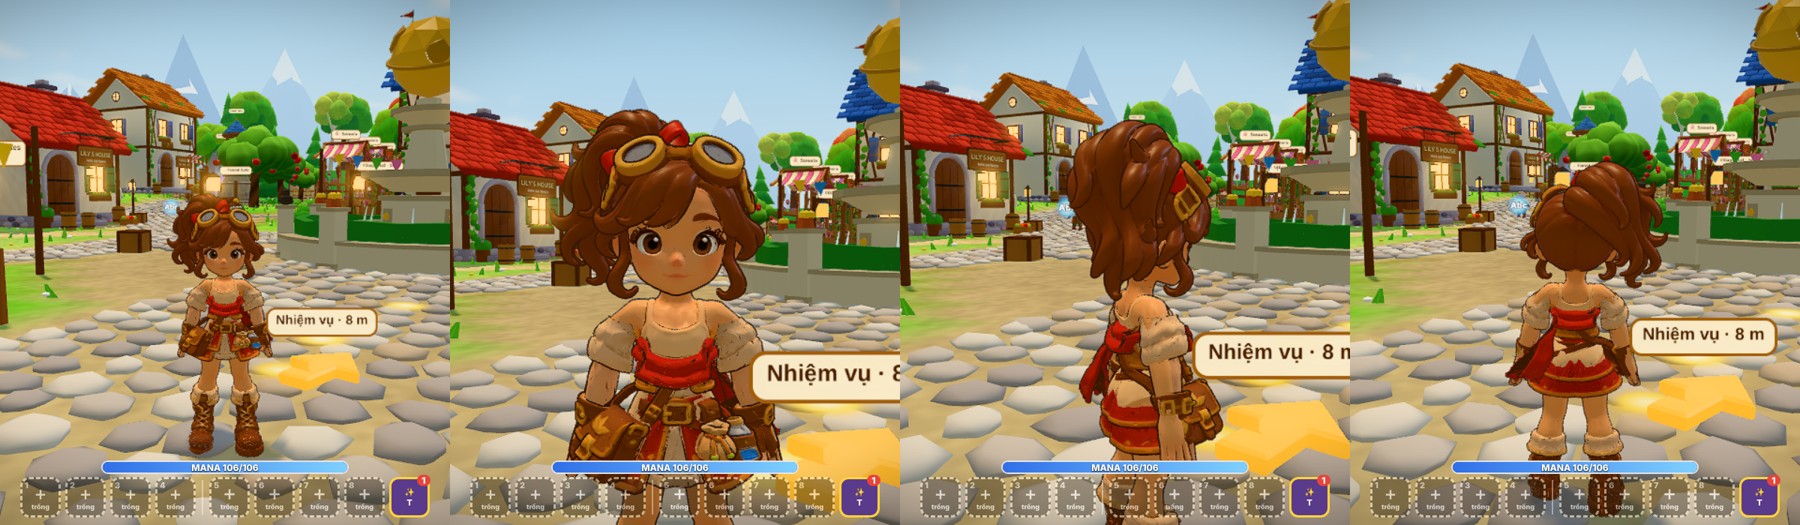
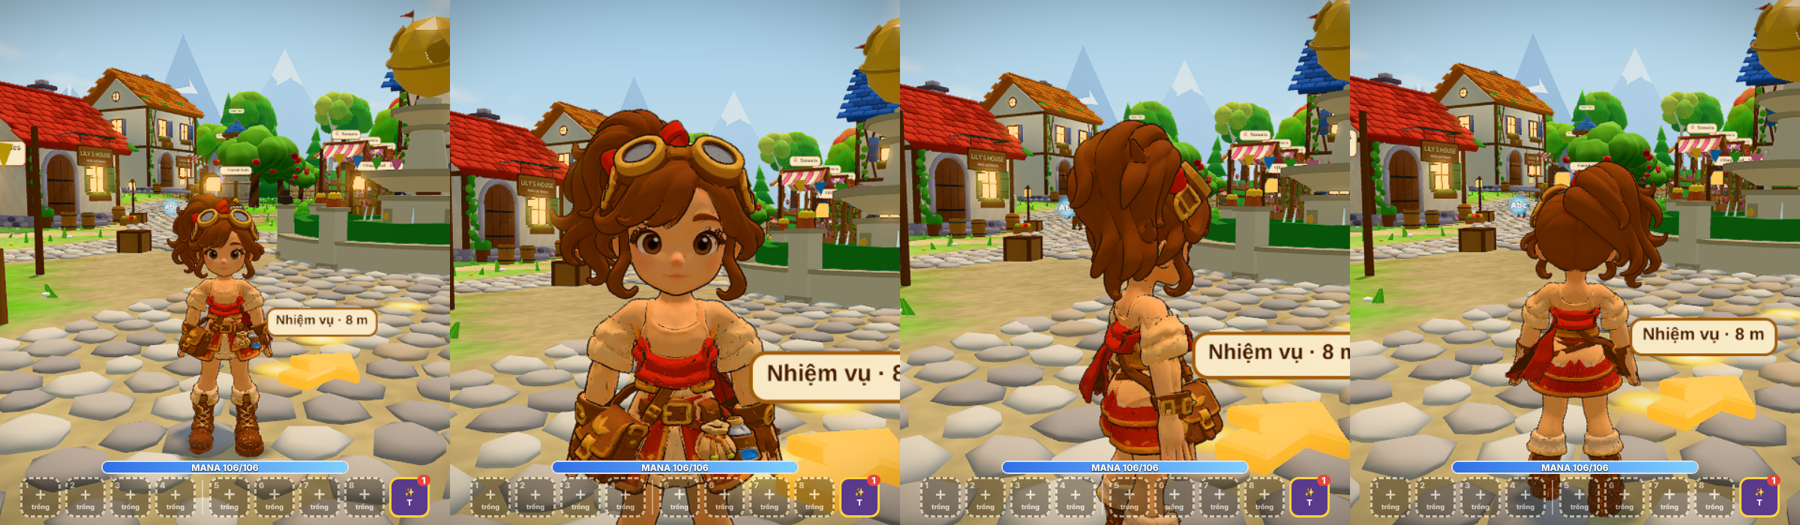
CLAUDE.md: hero colour fixes; new in-game shot
Claude-Session: https://claude.ai/code/session_016V53wRRtZJdThcBTNfy3qD

diff --git a/CLAUDE.md b/CLAUDE.md
@@ -64,6 +64,7 @@ PY=<python có bpy 4.2> tools/chibi05/build_all.sh   # dựng lại model, ~1 ph
 
 - Mô hình người KHÔNG có clip (Lily, Rose, Anna v02 — xương cũ v04 có xương `bun`) phải mượn clip cùng bộ xương; mượn clip Ngọc v05 làm hông nhấc lên, chân gập mất. Đổi xương Ngọc thì kiểm lại NPC mượn clip.
 - Clip đã buông tay sẵn: đừng xoay tay thêm (relaxArms đo từng clip). Sàn tầng trên phải khoét lỗ ở giếng cầu thang tầng dưới.
+- Mô hình Tripo: bản đồ metallicRoughness làm da thành kim loại → tối hẳn trong game (không có envMap); đặt metallic 0. Kiểm màu bằng cách đo điểm ảnh trong ảnh chụp game (mặt so với cổ), không chỉ nhìn ảnh Blender.
 - Gắn xương bằng trọng số theo khoảng cách cho nhân vật đầu to (chibi/Tripo): đỉnh mặt và tóc gần đoạn xương tay hơn trục đầu → mặt bị kéo khi hạ tay. Phải ép vùng đầu/tóc chỉ theo xương đầu (`tools/hero/rig_body.py`), và kiểm bằng cách so ảnh mặt ở tư thế nghỉ với Idle cùng góc chụp, không chỉ nhìn ảnh nghỉ.
 - Sửa CLAUDE.md bằng script: `index('**Lần cập nhật:**')` / `index('**BÀN GIAO')` trúng dòng hướng dẫn ở mục Quy tắc trước; phải tìm SAU tiêu đề `## Tiến độ`.
 
@@ -97,7 +98,7 @@ Cập nhật mục này mỗi khi xong việc, để phiên/hội thoại mới 
 - Lượt 52 (24/11) **chạy lại e2e đầy đủ, sửa test lệch luật mới và một lỗi thật** (121/121, EXIT 0). (1) LỖI THẬT: trong `src/main.js`, thông báo mở Map 2/3 (Tom nói "A boat is waiting at the dock…") ghi đè cảnh vua Slime nói lời chia tay + mảnh la bàn, vì `ui.dialogue` thay hộp thoại hiện tại chứ không xếp hàng. Sửa: `refresh()` chỉ mở thông báo khi `!ui.busy`, và `frame()` hỏi lại mỗi khung hình tới khi hộp thoại đóng. (2) `src/ui/race3d.js`: thêm hook test `g.laneNow()` (xe đang ở làn nào). (3) `tests/e2e.mjs` sửa cho đúng luật lượt 51: cổng rừng là cổng dịch chuyển mở bảng `#worldwin`; hứng táo có phí; slime ở cấp tối đa không EXP; máu tối đa qua `maxHp`; giá/sức đánh kiếm gỗ qua `ITEMS`; số nước kẹo và số mũi tên theo bậc; đua xe 3D lái bằng `laneNow` + `waitForFunction`; đổi người chơi bằng `#gsw` (`#gp` là nút tốc độ đọc); bước boss đọc qua thẻ rơi đồ rồi tới lời vua và có thử đánh lại.
 - Lượt 53 (25/11) **thêm Hội Đèn Làng (4 trò của anh, nhánh `lantern-games`)** (chưa đẩy; e2e chưa chạy lại). Lấy từ `origin/lantern-games` chỉ phần code/ảnh game (KHÔNG lấy .rar, GLB, ảnh áo trong commit đó): `src/ui/lantern/{board,fireflies,vault,courier,workshop}.js`, `tests/lantern.test.mjs`, `assets/ui/lantern_{fair,workshop}.webp`, `docs/hoi_den_lang.txt`. Nối vào game: `STARTS` có `lantern_fair` (làng, x4 z27, biển Hội Đèn Làng), `main.js` thêm nhánh `board('lantern_fair')` → menu 4 trò → `gameGate('Leo','lantern_fair', …)` (phí `GAME_FEE_K.lantern_fair = 1.5`, trả lời câu hỏi như trò khác), `arcade.js` thêm `directTouch` (canvas nhận chạm trực tiếp, tắt cần điều khiển). Luật mới giữ nguyên: trò không thưởng vàng/EXP (`onFinish` bỏ `res.gold/exp`). Test: unit 89/89 + lantern 6/6. **Chưa xem trong trình duyệt.** Cần: chạy quick nhóm arcade, xem bảng ở (4, 27) không chặn đường.
 - Lượt 54 (25/11) **góp ý chơi thử lần 9 + 10: mất tay, NPC mất chân, nhân vật dẹt, cây/bụi xấu, rau ngô, bãi quái rải rác, nhà rộng gấp đôi, cầu thang, camera trong nhà, sắp xếp đồ, 22 đồ mới, biệt thự lâu đài** (chưa đẩy). (1) LỖI THẬT mất tay: `game/relax.js relaxArms` xoay hướng tay tư thế T xuống rồi cộng vào clip, nhưng clip mô hình mới đã buông tay → tay chui vào thân; nay đo hướng tay ở khung đầu từng clip (`mixer.setTime(0)`), đã chĩa xuống (< 0,9 rad) thì giữ nguyên. (2) LỖI THẬT NPC mất chân/lơ lửng: Lily, Rose, Anna (xương cũ v04, có xương `bun`) mượn clip Ngọc v05 (hông 0,77 m, xương khác) → nay mượn clip `chr_ngoc_adventurer_v04` (`oldRigClips` trong vòng FRIENDS, main.js). (3) Nhân vật dẹt khi nhìn nghiêng: `thicken(gltf)` (relax.js) bọc con của scene vào nhóm `thick` scale z ×1,3 cho mọi mô hình người (`isPerson`: có 2 xương upper_arm); gọi trong vỏ `loader.loadAsync` (main.js). (4) Cây/bụi: `world/foliage.js restyle(name, scene)` thay lưới `Plant` (lá thẻ phẳng) của tree_apple/tree_birch/bush_* bằng thân + tán khối tròn mềm (icosphere gợn, màu đỉnh sáng), giữ quả táo (đẩy ra mặt tán), chùm quả mọng; bụi hoa trắng thêm hoa 5 cánh; gọi trong `buildPlants`. (5) Luống trang trại giai đoạn 3–4 dùng mô hình (`CROP_MODEL` homes.js). (6) `core/zones.js`: bãi quái rải khắp map (Làng dọc bờ Đông sông — bờ Đông mở bằng nhiệm vụ cầu, KHÔNG đặt quái bờ Tây; Biển/Rừng mỗi bãi một hướng), quái cách nhau ≥ `GAP` 4,5 m. (7) **Nhà** (`core/house.js`): `SIZE` thường 32×24 m, biệt thự 44×32 (`dims(h)`), mọi hàm nhận h: `stairOf`, `stairX(f,h)`, `stairY(f,z,h)`, `inStairColumn(f,x,h)`, `cellsOf(h)`, `freeAt`; cầu thang rộng 3 m (`STAIR_HALF 1.5`) dài gần hết chiều sâu (dốc ~30°), thảm đỏ, mũi bậc, lan can 2 bên, trụ đầu cầu thang (biệt thự vàng); `houseFloor` (interior.js) KHOÉT LỖ sàn tầng trên ở giếng cầu thang tầng dưới + lan can quanh lỗ (lỗi cũ: sàn tầng trên lát kín nên không thấy lối xuống); cửa sổ/đèn/cột/đèn chùm theo kích thước. (8) Camera trong nhà (homewalk.js): giữ hướng người chơi chọn, chỉ rút ngắn khoảng cách khi chạm tường/trần (tia cắt hộp), không còn bị ép ngang → hết quay loạn ở góc. (9) Đồ đạc: 22 món mới trong `ITEMS` (rules.js, seller home) + `XTRA` vẽ bằng khối (interior.js `extraThings`), nhóm `kitchen` mới; `roomOf(h)` cho mỗi nhóm một phòng (bếp ở chung phòng khách khi nhà 1 tầng). Sắp xếp: mua đồ xong `HomePanel.buyItem` → rebuild → `room.pickUp(id)` (đồ nằm trên tay, theo chuột); thanh nút `#hometools` (Sắp xếp/Xong, Xoay 45°, Đặt ở đây, Thôi) gọi `room.tool(name)`; đồ đang cầm theo người lên xuống tầng; R xoay 45°. (10) Biệt thự ngoài: theo ảnh lâu đài anh gửi 25/11 → `world/castle.js castleVilla(floors)` (bệ đá có vòm, cầu thang thảm đỏ viền vàng, cổng vòm cửa gỗ đôi vòng vàng, đèn tường, cờ đỏ/xanh hoa huệ vẽ canvas, tường răng cưa, tháp chính mái xanh nhọn + cửa sổ mái + 2 chóp nhỏ, 2 tháp tròn sau mái xanh, 2 tháp trước chòi đèn mái đỏ, nhà nhỏ mái đỏ, vọng lâu mái vòm, bồn hoa, dây leo; khối thường bake thành 1 lưới; quay π/2 cho mặt tiền ra đường; 25/11 sau đó dựng lại bằng Blender: `tools/castle/build_castle.py` (bpy 4.2, vân gạch/đá, ngói vảy cá, cạnh vát, ảnh PIL trong `tools/castle/tex/`) → `assets/models/bld_castle_villa_f2.glb`/`_f3.glb` (~45–56 nghìn tam giác, 2,7–3,3 MB); `Homes.castleGlb(n)` nạp khi lần đầu có biệt thự, lúc chưa nạp xong dùng bản code `castleVilla`; cửa/biển theo `CASTLE_DOOR`). Hàm cũ `villaExterior` (homes.js) còn giữ nhưng không gọi: (khối kem viền vàng, mái đá xanh, sảnh 4 cột + ban công, 2 tháp tròn mái nhọn cắm cờ, đèn, bậc đá) thay mô hình hội trường xanh; biển tên luôn trên cửa (`lot.signAt`: biệt thự ở ban công, nhà thường 4,7 m × hệ số cao tầng). Test: unit 89/89 (test nhà sửa theo kích thước mới). Đã xem ảnh riêng: tay đủ, cây/bụi mới, nội thất 2 tầng + lỗ cầu thang, 22 đồ, biệt thự. **CHƯA kiểm trong game thật**: thanh nút sắp xếp, mua-rồi-cầm, camera ở góc; chưa chạy quick/e2e (e2e có bước vào nhà/thả đồ có thể lệch toạ độ cũ).
-- Lượt 55 (25/11) **nhân vật Tripo (Ruby) vào game** (đã đẩy tới 154f4db trừ phần nối game; commit sau đó chưa đẩy). Nhận từ anh GLB Tripo: thân trần 63k tam giác + bộ Outfit 1 tách 16 phần. `tools/hero/rig_body.py` (co thân S=0,771/0,45, gắn xương Ngọc v05 cùng tên xương nên dùng nguyên 10 clip; trọng số tự tính theo khoảng cách đoạn xương vì bone-heat của Blender không giải được; `HERO_RATIO` giảm tam giác, dùng 0,42) → `assets/models/chr_hero_body_v01.glb`; `tools/hero/fit_outfit.py` (co từng phần outfit theo `Z_TORSO/Z_SCARF/Z_HEAD`, `RATIO` từng món, bỏ bản đồ pháp tuyến/kim loại của quần áo, giữ của thân để mắt bóng) → `assets/models/chr_hero_v01.glb` (5,7 MB, ~28k thân + ~46k đồ tam giác; mesh `Hero`, `Outfit_*`, kính tên `Gear_goggles`). **Nối game**: `Player.bindModel/setModel` (actors.js) đổi mô hình tại chỗ; `main.js swapAvatar(kind)` + `profile.avatar === 'hero'` (bản cũ không có trường này = Ngọc), `applyLook` gọi đổi khi khác; viền mỏng 0,005 cho hero; `thicken` bỏ qua tên chứa `chr_hero`; `ui/creator.js` có hàng chọn Ruby/Ngọc khi tạo mới (mặc định Ruby, ẩn mặt/da/tóc/áo vì hero không dùng). `tests/hero_look.mjs` chụp 4 góc trong game (ảnh `screenshots/hero_ingame.png`). Đã xem: hiện đúng trong làng, mặc đồ, không lỗi console, unit 89/89. **CHƯA kiểm**: màn tạo nhân vật bấm chọn Ruby, kiếm/giáp/túi gắn xương khi mặc hero (hang dùng boneInverses của hero, kích thước tính cho Ngọc), nhà (`avatar` trong enterRoom), nét mặt (hero không có `ngoc_face_*`, không chớp mắt/nói), tóc/màu tóc/đồ tủ đồ Ngọc không áp lên hero, (25/11 SỬA LỖI THẬT mặt méo/tối: trọng số theo khoảng cách cho mặt và lọn tóc tới 50% xương vai/tay vì đầu chibi to hơn xương nhiều, hạ tay là kéo méo mặt; nay `rig_body.py` lấy màu vân (kênh xanh < 0,45 = tóc nâu/nơ đỏ) + vùng trên cổ → chỉ xương đầu, cằm pha cổ, dưới cổ không dùng xương đầu; `fit_outfit.py` kính chỉ theo đầu, đồ khác bỏ xương đầu; đã so mặt đứng yên/Idle/Walk/Run giống hệt và chụp lại trong game). Còn vệt tối nhỏ ở nách khi hạ tay. **Việc tiếp**: kiểm các mục trên, tách `Outfit_*` để tủ đồ bật/tắt từng món và bán bộ đồ khác, đổi tên Ruby theo ý anh, đưa mắt có biểu cảm nếu cần.
+- Lượt 55 (25/11) **nhân vật Tripo (Ruby) vào game** (đã đẩy tới 154f4db trừ phần nối game; commit sau đó chưa đẩy). Nhận từ anh GLB Tripo: thân trần 63k tam giác + bộ Outfit 1 tách 16 phần. `tools/hero/rig_body.py` (co thân S=0,771/0,45, gắn xương Ngọc v05 cùng tên xương nên dùng nguyên 10 clip; trọng số tự tính theo khoảng cách đoạn xương vì bone-heat của Blender không giải được; `HERO_RATIO` giảm tam giác, dùng 0,42) → `assets/models/chr_hero_body_v01.glb`; `tools/hero/fit_outfit.py` (co từng phần outfit theo `Z_TORSO/Z_SCARF/Z_HEAD`, `RATIO` từng món, bỏ bản đồ pháp tuyến/kim loại của quần áo, giữ của thân để mắt bóng) → `assets/models/chr_hero_v01.glb` (5,7 MB, ~28k thân + ~46k đồ tam giác; mesh `Hero`, `Outfit_*`, kính tên `Gear_goggles`). **Nối game**: `Player.bindModel/setModel` (actors.js) đổi mô hình tại chỗ; `main.js swapAvatar(kind)` + `profile.avatar === 'hero'` (bản cũ không có trường này = Ngọc), `applyLook` gọi đổi khi khác; viền mỏng 0,005 cho hero; `thicken` bỏ qua tên chứa `chr_hero`; `ui/creator.js` có hàng chọn Ruby/Ngọc khi tạo mới (mặc định Ruby, ẩn mặt/da/tóc/áo vì hero không dùng). `tests/hero_look.mjs` chụp 4 góc trong game (ảnh `screenshots/hero_ingame.png`). Đã xem: hiện đúng trong làng, mặc đồ, không lỗi console, unit 89/89. **CHƯA kiểm**: màn tạo nhân vật bấm chọn Ruby, kiếm/giáp/túi gắn xương khi mặc hero (hang dùng boneInverses của hero, kích thước tính cho Ngọc), nhà (`avatar` trong enterRoom), nét mặt (hero không có `ngoc_face_*`, không chớp mắt/nói), tóc/màu tóc/đồ tủ đồ Ngọc không áp lên hero, (25/11 SỬA LỖI THẬT mặt méo/tối: trọng số theo khoảng cách cho mặt và lọn tóc tới 50% xương vai/tay vì đầu chibi to hơn xương nhiều, hạ tay là kéo méo mặt; nay `rig_body.py` lấy màu vân (kênh xanh < 0,45 = tóc nâu/nơ đỏ) + vùng trên cổ → chỉ xương đầu, cằm pha cổ, dưới cổ không dùng xương đầu; `fit_outfit.py` kính chỉ theo đầu, đồ khác bỏ xương đầu; đã so mặt đứng yên/Idle/Walk/Run giống hệt và chụp lại trong game). Còn vệt tối nhỏ ở nách khi hạ tay. (25/11 SỬA màu: thân bị tối vì bản đồ kim-loại/nhám Tripo làm da thành kim loại (game không có phản chiếu) → mọi vật liệu hero metallic 0, nhám 0,82 như Ngọc; đồ lót be lộ ở cổ áo → trong file mặc đồ tô vùng đồ lót trên eo thành màu da (`fit_outfit.py`, mặt nạ UV các mặt z>0,45), da trên váy/tay áo (bản Tripo khác, nhợt hơn) chỉnh về tông da mặt; `swapAvatar` nhân màu vật liệu hero 1,15. Đo trong game: cổ và mặt cùng tông. Còn: viền dây áo lót mờ ở cổ, lưng chỗ eo có mảng da lộ giữa áo gile và váy.) **Việc tiếp**: kiểm các mục trên, tách `Outfit_*` để tủ đồ bật/tắt từng món và bán bộ đồ khác, đổi tên Ruby theo ý anh, đưa mắt có biểu cảm nếu cần.
 - Lượt 51 (24/11) **cấp tối đa theo map, EXP chỉ từ quái và nhiệm vụ, bãi quái theo cấp, vũ khí theo cấp, mini game trả vàng + câu hỏi và không thưởng** (chưa đẩy; e2e đầy đủ CHƯA chạy lại). Bảng số sinh từ code: `docs/CAP_DO_QUAI_TRANG_BI.md`. (1) `src/core/progress.js` (thuần, test): một hệ kỹ năng đầy = 7 dòng × 10 bậc = 70 điểm = **cấp 70** (`MAX_LEVEL`; cả 4 hệ 280; bản ghi cũ "240/60" trong skills.js sai, đã sửa); cấp tối đa cứng của map = đầu trên của khoảng cấp trên bản đồ thế giới (`world.js MAPS.lv`: Làng 5, Biển 10, Rừng 20, …, hai map cuối kéo giãn để chạm 70); `levelCap(profile)` theo `profile.region` (đảo kho báu thuộc Biển; admin không giới hạn); `save.addExp` không cộng khi đạt cấp tối đa (thanh EXP ghi "TỐI ĐA cấp N ở vùng này"), `killExp` giảm 20%/cấp khi quái yếu hơn bé (tối thiểu 15%) và = 0 ở cấp tối đa; `EXP_K` và `expNeed` chuyển sang progress.js (save.js export lại). Công thức quái `mobStats(level, role)`: máu = công của bé trong đồ cùng cấp × số nhát (2,2 → 7), công = máu bé/14, EXP = EXP cấp/(10+0,3·cấp) lần, vàng = 2+0,9·cấp; `normal | ranged | elite`; trùm `bossStats`, **thức dậy dưới cấp chiến đấu 1 cấp** để EXP lần đầu còn tính. (2) **Thứ tự mở map theo bản đồ**: Làng (1–5) → Biển (5–10, cần thắng Vua Slime + cấp 5 + qua cổng Cú Mèo cấp 5: `map2Ready`, `CONDITIONS.sea`) → Rừng (10–20, cần huy hiệu Tom + cấp 10 + cổng 10: `forestReady`, `CONDITIONS.forest`); bài thi mở map ở cấp 10 (Unit 2) và 20 (Unit 3, chưa có ngữ pháp nên hỏi từ) (`EXAM_GATES = [10, 20]`, `EXAM_UNIT`), cổng ôn tập mỗi 5 cấp tới 70 (`GATES`, `GRAMMAR_GATES`). Golem Cổ chuyển sang **Rừng** (khoảng trống Đông Bắc (49,−44)), Vua Slime ở (38,−52); `Wild.on`: rừng luôn có quái (bỏ điều kiện xong nhiệm vụ pha lê). Chuỗi nhiệm vụ `quests.js` xếp lại (làng → owl5 → boss1 → map2 → cảng … boss4 → owl10 → rừng …boss2 → owl20); mảnh La Bàn: Vua Slime (1), Bạch Tuộc (2), Golem Cổ (3), hạng Người Giữ Chữ 3 ở cổng 10 và 4 ở cổng 20 (`saga.js`, lời thoại `game/saga.js`). (3) **Bãi quái** `src/core/zones.js` (`ZONES`, `spawnsOf`; `SPAWNS` trong rules.js dẫn xuất từ đây; SAFE tách sang `core/safe.js`): Làng 6 bãi (thỏ 1, slime xanh 2, yêu tinh 3, slime đỏ 4, quỷ lửa 5, golem đá tinh anh 5) ở phía Đông sông, Biển 4 (cua 5, sứa 6, hải âu 8, cướp biển 9), Rừng 5 (dơi 10, ma trơi 12, cáo 14, nấm 16, orc 18); mỗi quái một cấp cố định, nhãn "Lv N" trên đầu, biển nổi giữa bãi (`Wild.signs`, `tagLevel`); vị trí tìm bằng script dò địa hình (vòng tròn sạch bán kính 6–7). Tiền thưởng bảng săn tính theo quái (`HUNTS` rules.js). (4) **Trang bị theo cấp**: bảng `LADDER` trong rules.js chỉ ghi cấp (và nơi bán); công/thủ/máu/giá tính từ `weaponAtk`, `armorDef`… (vũ khí = 80% công cơ bản của cấp); lò rèn làng cấp 1–5, quầy Willow ở cảng (seller `harbor`) cấp 6–10, quầy Willow trong rừng (seller `forest`) cấp 11–20 với 17 món mới (`NEW_GEAR`, dùng mô hình của món cũ qua `GEAR_LIKE`). (5) **Mini game**: `gameGate(who, game, then)` (main.js) = phí vàng (`gameFee`, tăng theo cấp) + 3 câu (từ vựng, hoặc 1 câu chia động từ vào chỗ trống từ `grammarFor`), trả phí khi bắt đầu chơi; áp cho Xếp kẹo, Xếp hình, Bắn cung, Đua xe (3 map), Style/Café/Salon, Câu cá, Hứng táo; **chơi xong không có vàng, không EXP** (bỏ `pay`, `FULL_PLAYS`; chỉ còn kỷ lục + vật phẩm: phụ kiện tủ đồ của Style/Salon, cá và táo vào túi); đua xe bỏ chữ cái (chỉ lái, xu ★ để tính điểm). Bỏ EXP khỏi rương, bong bóng chữ, câu cá, kho báu, Album biển (vàng giữ); ôn lại từ sau trò không thưởng. (6) Test: unit 88/88; quick đạt các nhóm boot combat unit owl exam arcade map2 harbor extras forest bag shop intro admin voice world (đã sửa test theo luật mới; touch chưa chạy). **Bẫy**: máy test rất chậm, nhóm cần `waitForFunction` chờ quái hiện; trùm không còn nằm ở làng (Golem Cổ ở rừng); `quick` không còn thấy gold từ mini game. **Quy tắc vàng ở cấp tối đa (anh chốt cuối 24/11)**: ở cấp tối đa của map, quái và nhiệm vụ không cho EXP, chỉ còn **một nửa vàng, giảm dần mỗi lần nhận thưởng tới 0 sau 30 lần** (`CAP_GOLD`, `capGoldFactor` trong progress.js; `Save.capGold(profile, gold)`; đếm ở `profile.capN[cấp]`, sang map mới cấp tối đa mới nên vàng trở lại); áp cho vàng quái (`Wild.kill`), việc ở bảng săn (`Wild.jobDone`), nhận thưởng sổ nhiệm vụ (`claimReward` main.js); nhiệm vụ truyện làm một lần không áp. **Quyết định của anh**: câu cá và Hứng táo vẫn cho cá/táo bán lấy vàng; bé đang trên cấp 20 để nguyên (không EXP tới khi có map mới); bản này chưa phát hành nên được đổi thoải mái (đổi save cũ không cần giữ).
 
 **Báo cáo rà soát 16/11 (anh đã duyệt hết):** xong N2 N3 N4 N5 T1 T2 T3 T4 K1 K2 K3 K4 K5 K6 M1. N1: đã có bảng `docs/DOI_CHIEU_NOI_DUNG.html`, chờ giáo viên tick rồi gửi dòng mã. M2 thay bằng shader vẽ tay (không cần file ảnh). Anh đã bỏ Tripo (M3). Anh tự làm: Q1/Q4 xóa nhánh trên GitHub (em không có quyền xóa nhánh), Q2 tắt skill trong Cài đặt, Q5 gõ /compact thành dòng riêng, Q6 dùng /caveman lite. Q3 giữ nguyên. M3/M4 (dịch vụ AI 3D, thuê họa sĩ) cần anh làm/chi tiền, em tích hợp khi có file.
